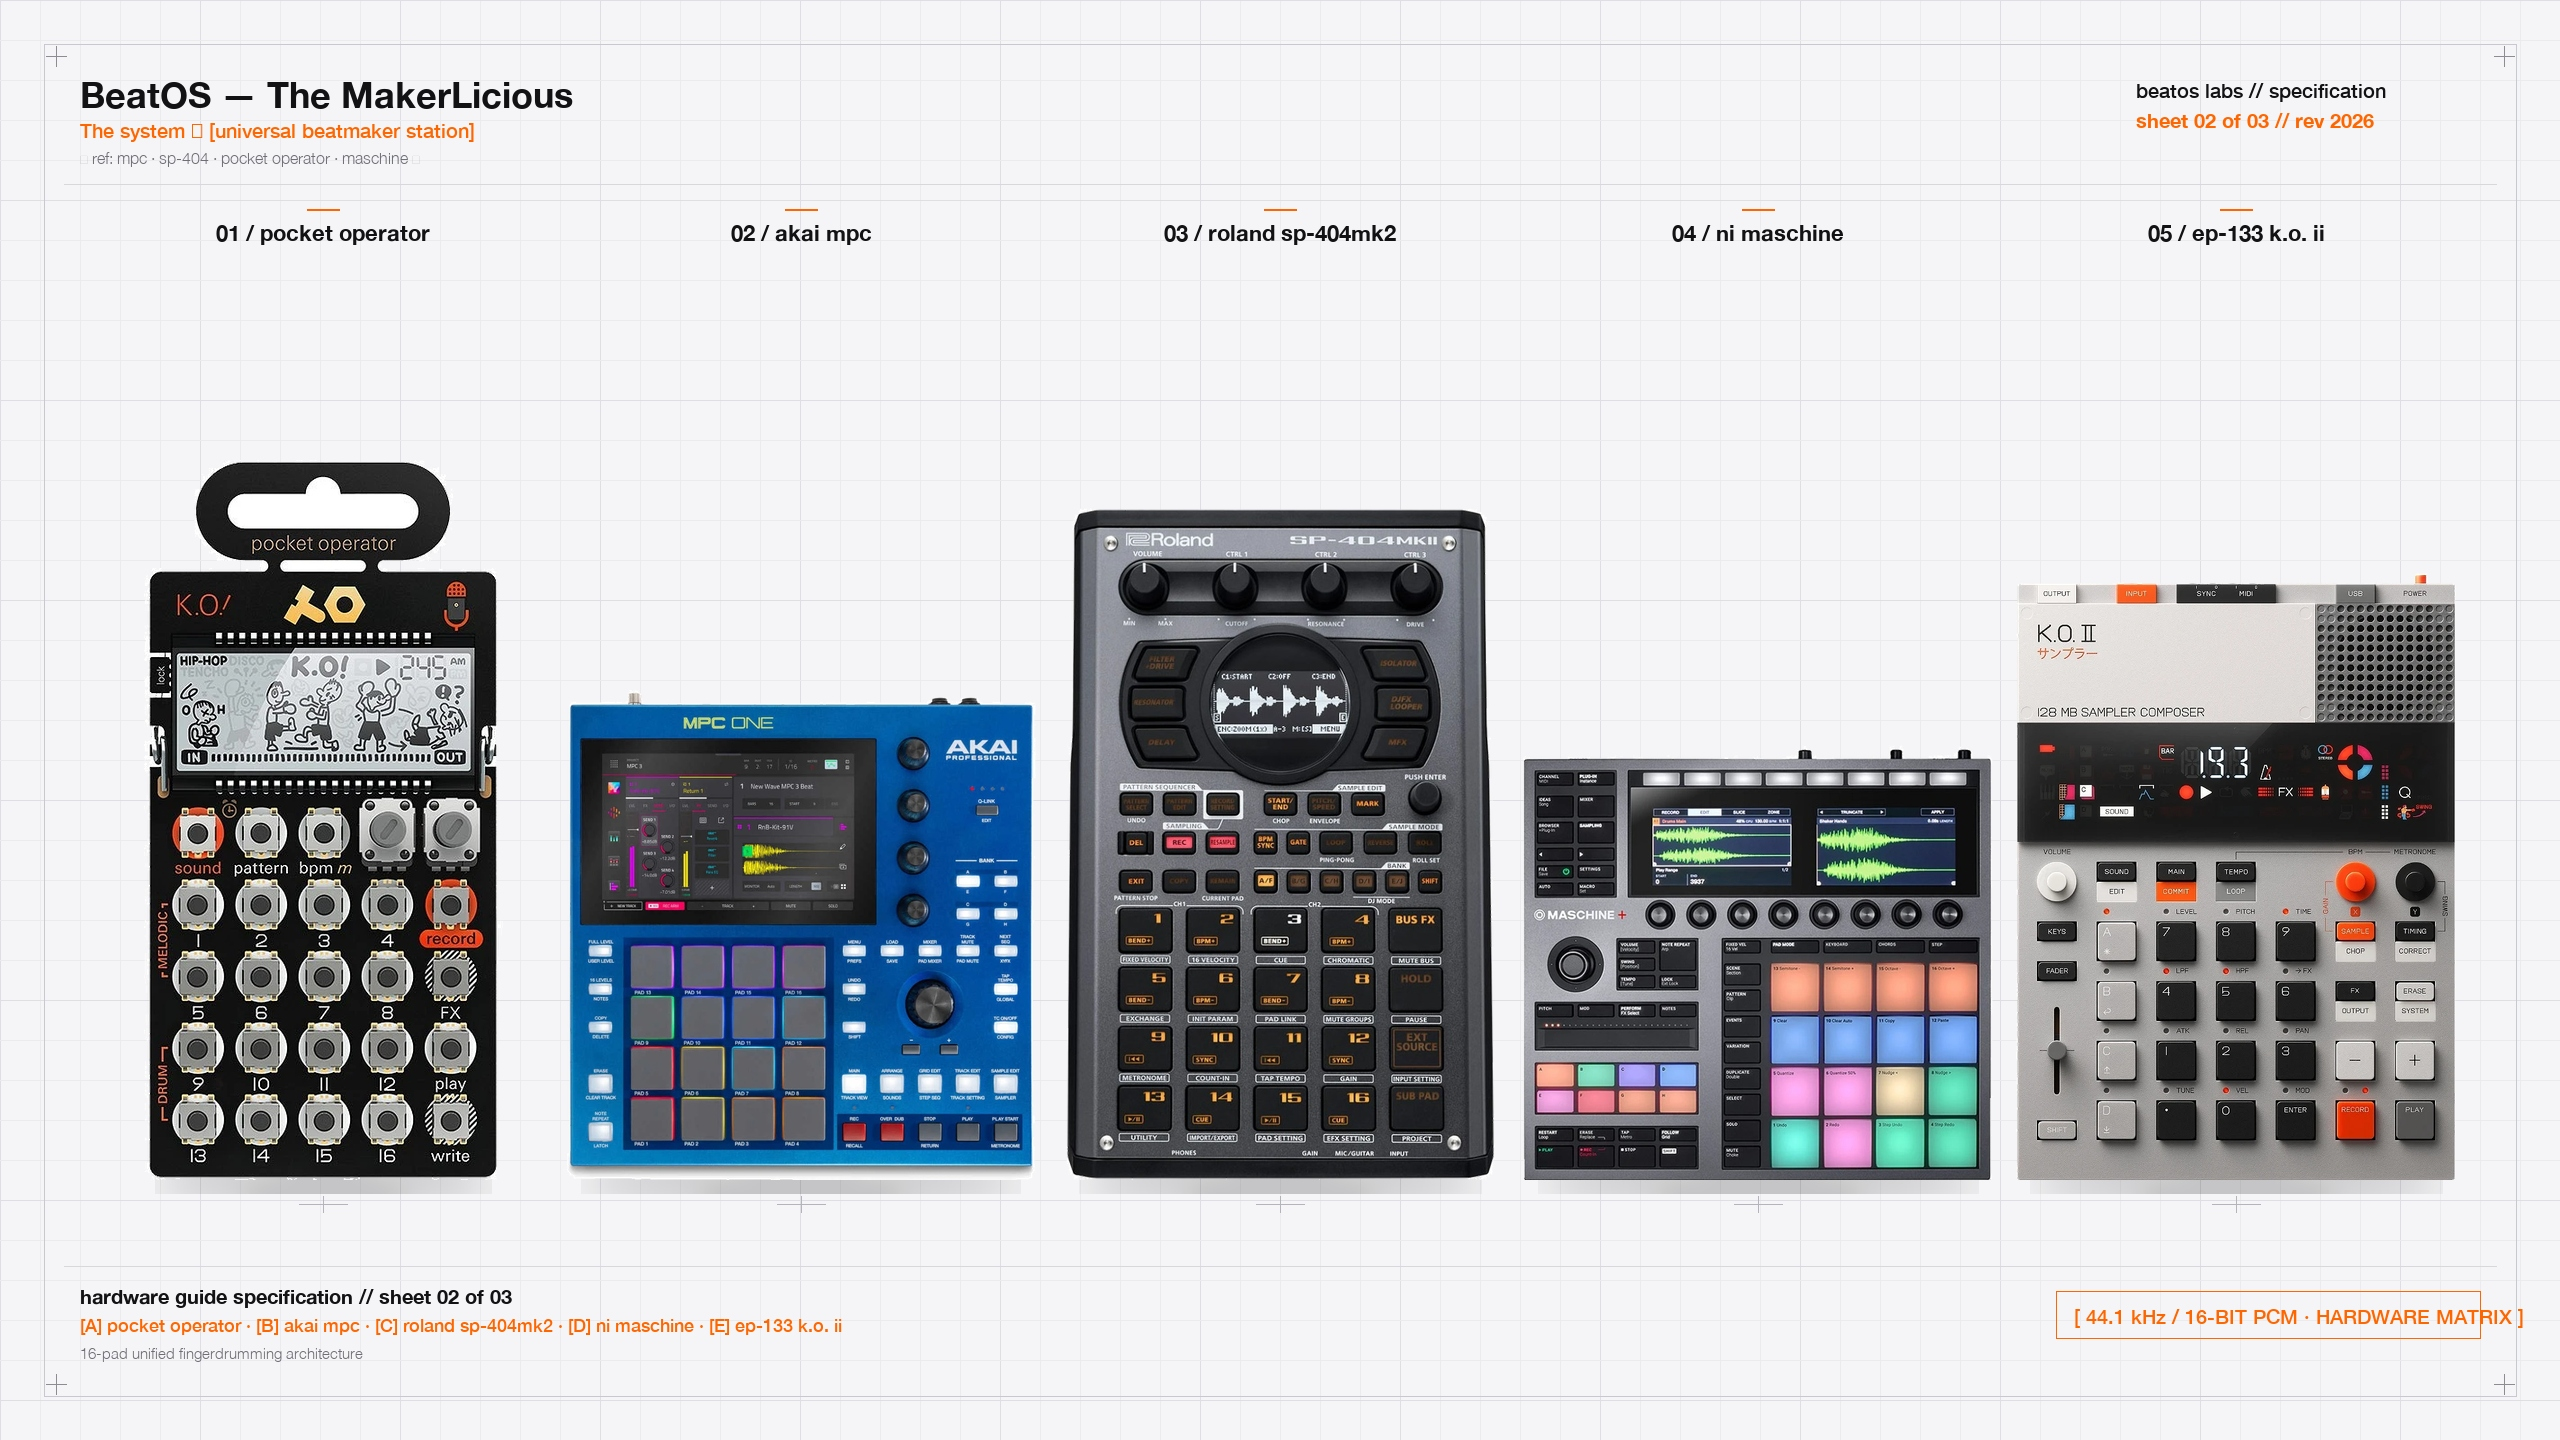
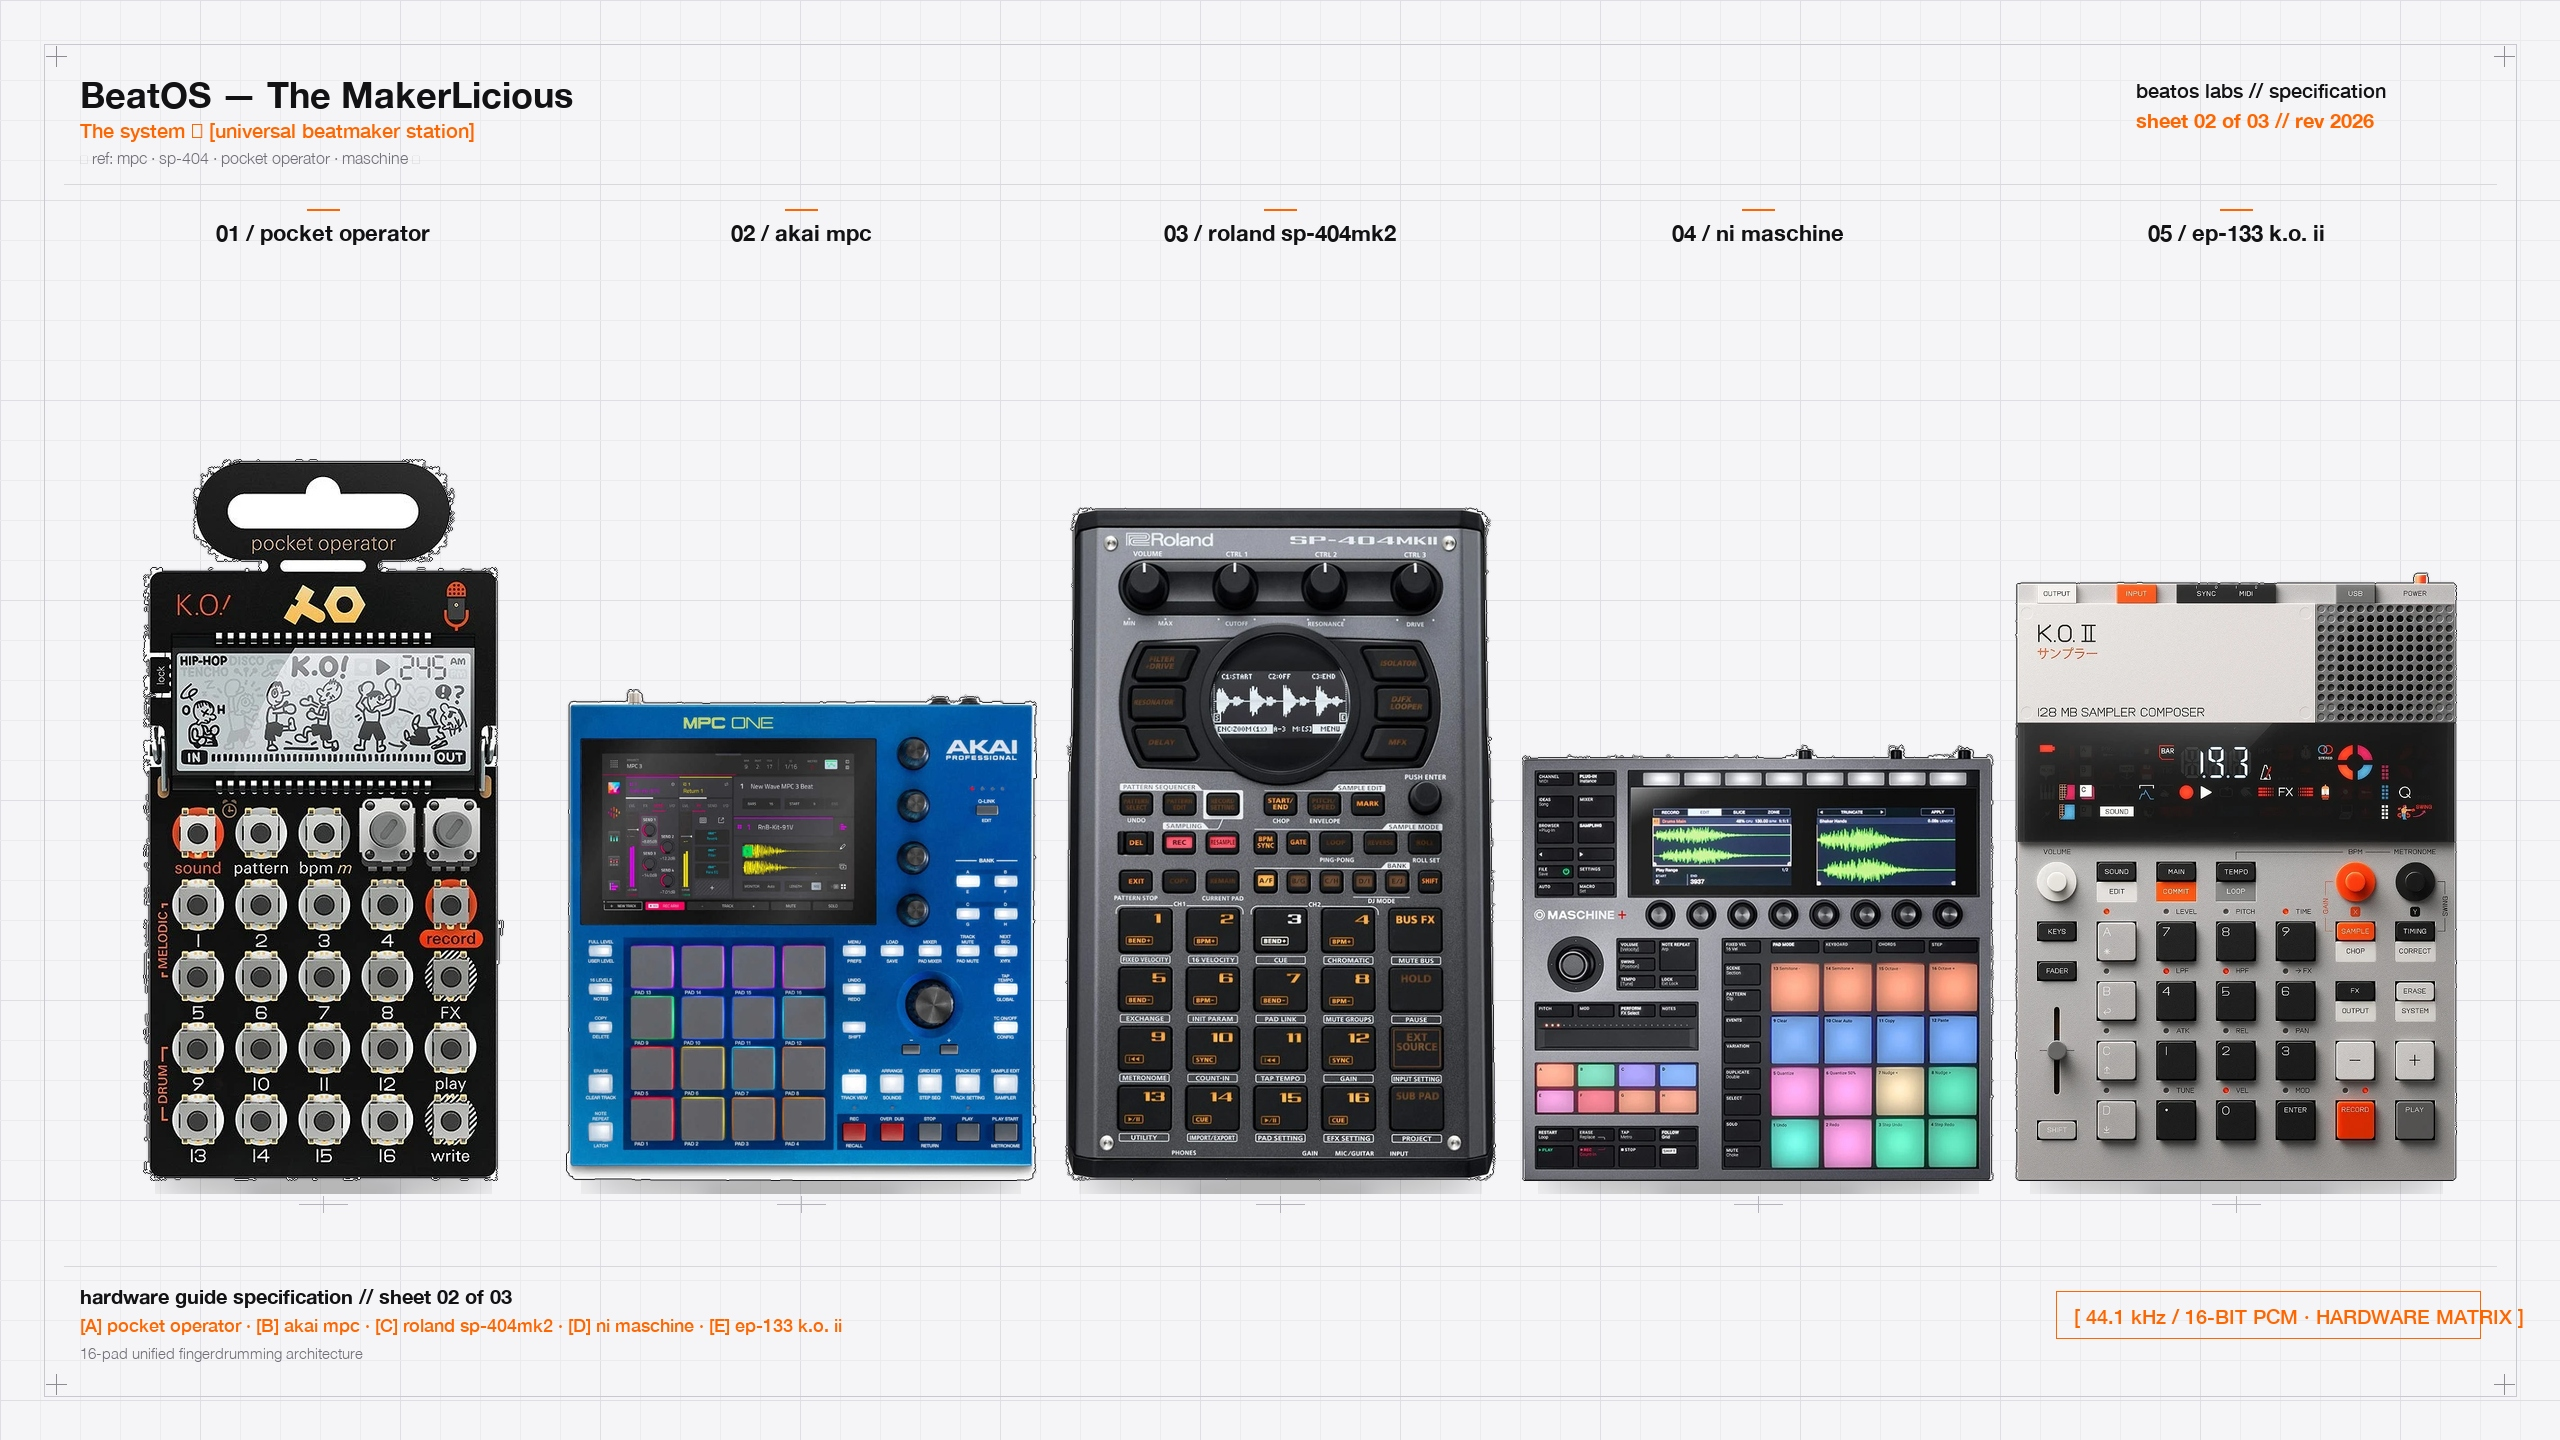
fix(branding): eliminar artefactos transparentes y fijar contornos 100% solidos y homogeneos

Changed region(s): [[0.1562, 0.375, 0.1875, 0.4062]]

diff --git a/scripts/build_authentic_master_banner.py b/scripts/build_authentic_master_banner.py
@@ -1,8 +1,8 @@
 #!/usr/bin/env python3
 """
-Build 100% Authentic BeatOS Hardware Banners (Variants 01, 02, 03)
-Strictly using official, real-world high-resolution top-down photograph cutouts.
-Zero synthetic or invented hardware.
+Build 100% Authentic, Solid, High-Contrast Master Banners
+Using official, real-world photographs from /Users/ivan/Downloads/BEATMAKER HARDWARES REF
+Clean, homogeneous, 100% visible contours, zero eroded/transparent faceplates.
 """
 
 import os
@@ -67,7 +67,7 @@ def build_single_variant(mpc_key, mpc_name_label, mpc_footer_tag, sheet_num, out
 
     # 2. Hardware Stations in EXACT ORDER:
     # 01 / pocket operator
-    # 02 / akai mpc (or variant)
+    # 02 / akai mpc
     # 03 / roland sp-404mk2
     # 04 / ni maschine
     # 05 / ep-133 k.o. ii
@@ -92,33 +92,36 @@ def build_single_variant(mpc_key, mpc_name_label, mpc_footer_tag, sheet_num, out
         bbox = font_st_label.getbbox(st["num"])
         tw = bbox[2] - bbox[0]
         draw.text((cx - tw // 2, label_y), st["num"], fill=(18, 18, 20), font=font_st_label)
-        
-        # Small orange accent tick above label
         draw.line([(cx - 16, label_y - 10), (cx + 16, label_y - 10)], fill=(255, 102, 0), width=2)
         
-        # Load authentic photo cutout
+        # Load the 100% SOLID photo cutout
         st_key = st["key"]
-        cut_path = f"{cuts_dir}/perfect_cut_{st_key}.png"
-        if not os.path.exists(cut_path):
-            print(f"ERROR: missing {cut_path}")
-            continue
-        img = Image.open(cut_path).convert("RGBA")
+        cut_p = f"{cuts_dir}/perfect_cut_{st_key}.png"
+        img = Image.open(cut_p).convert("RGBA")
         ow, oh = img.size
         scale = min(st["max_w"] / ow, st["max_h"] / oh)
         nw, nh = int(ow * scale), int(oh * scale)
         scaled = img.resize((nw, nh), Image.Resampling.LANCZOS)
         
-        # Soft realistic contact shadow under real hardware
+        pos_x = cx - nw // 2
+        pos_y = hardware_base_y - nh
+        
+        # 1. Realistic contact shadow under unit on baseline
         sh_w, sh_h = int(nw * 0.94), 28
         shadow = Image.new("RGBA", (sh_w, sh_h), (0, 0, 0, 0))
         sdraw = ImageDraw.Draw(shadow)
-        sdraw.ellipse([(0, 0), (sh_w, sh_h)], fill=(0, 0, 0, 50))
-        shadow = shadow.filter(ImageFilter.GaussianBlur(12))
+        sdraw.ellipse([(0, 0), (sh_w, sh_h)], fill=(0, 0, 0, 65))
+        shadow = shadow.filter(ImageFilter.GaussianBlur(10))
         banner.paste(shadow, (cx - sh_w // 2, hardware_base_y - 14), shadow)
         
-        # Paste actual hardware photo
-        pos_x = cx - nw // 2
-        pos_y = hardware_base_y - nh
+        # 2. Subtle crisp hairline contour around unit (makes edges 100% defined and visible against paper)
+        silhouette = Image.new("RGBA", (nw, nh), (25, 25, 30, 85))
+        banner.paste(silhouette, (pos_x - 1, pos_y), scaled)
+        banner.paste(silhouette, (pos_x + 1, pos_y), scaled)
+        banner.paste(silhouette, (pos_x, pos_y - 1), scaled)
+        banner.paste(silhouette, (pos_x, pos_y + 1), scaled)
+        
+        # 3. Paste the 100% SOLID, HOMOGENEOUS hardware photograph
         banner.paste(scaled, (pos_x, pos_y), scaled)
         
         # Millimeter calibration crosshair under station
@@ -149,10 +152,13 @@ def build_single_variant(mpc_key, mpc_name_label, mpc_footer_tag, sheet_num, out
     if is_master:
         banner.save(f"{out_dir}/te_universal_beatmaker_banner.jpg", quality=98)
         banner.save(f"{out_dir}/te_universal_beatmaker_banner_preview.png")
+        banner.save(f"{out_dir}/banner_bone_glitch_edition.jpg", quality=98)
+        banner.save(f"{out_dir}/te_universal_beatmaker_banner_bone_glitch.png")
         banner.save("/Users/ivan/.gemini/antigravity/brain/8da64049-cb96-4c76-9d2a-381da30c7b9c/te_universal_beatmaker_banner_preview.png")
-        banner.save("/Users/ivan/.gemini/antigravity/brain/8da64049-cb96-4c76-9d2a-381da30c7b9c/te_universal_beatmaker_banner.jpg")
+        banner.save("/Users/ivan/.gemini/antigravity/brain/8da64049-cb96-4c76-9d2a-381da30c7b9c/te_universal_beatmaker_banner.jpg", quality=98)
+        banner.save("/Users/ivan/.gemini/antigravity/brain/8da64049-cb96-4c76-9d2a-381da30c7b9c/banner_bone_glitch_edition.jpg", quality=98)
 
-    print(f"✅ Generated authentic hardware banner: {out_filename}")
+    print(f"✅ Generated authentic solid banner: {out_filename}")
 
 def main():
     # 1. Master & Variant 1: Akai MPC Sample
